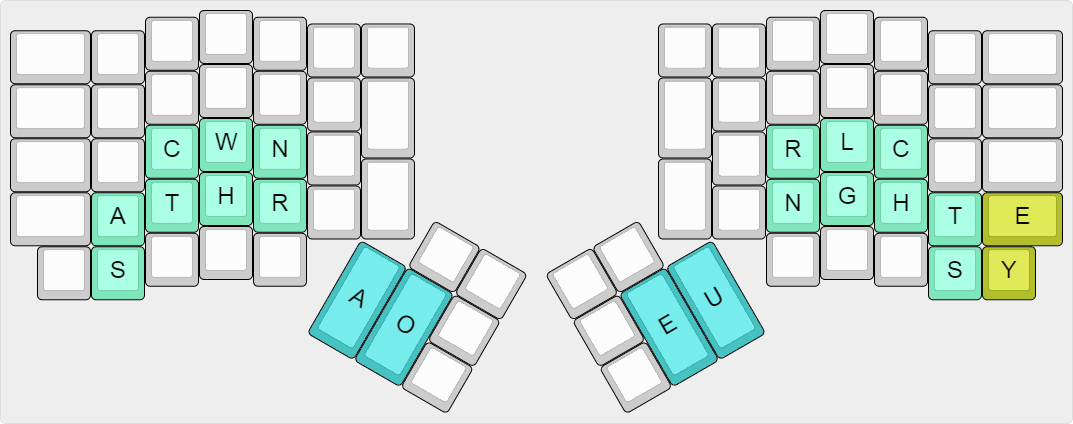
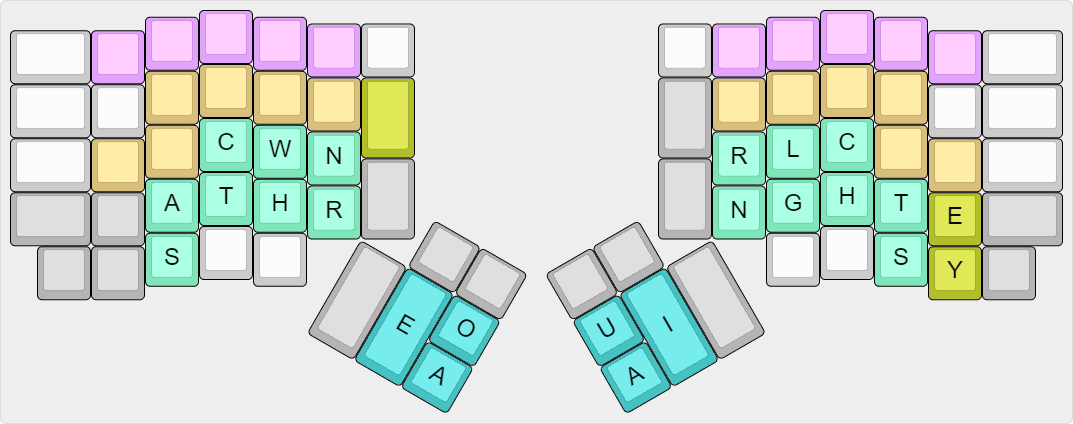
New 5 vowels layout, it should works

diff --git a/keyboard/ergodox_ez/keymaps/fromtonrouge/lookup_tables/shelton_tables.h b/keyboard/ergodox_ez/keymaps/fromtonrouge/lookup_tables/shelton_tables.h
@@ -264,46 +264,78 @@ const uint8_t PROGMEM g_left_hand_table[256][MAX_LETTERS] =
     NO_ENTRY                                // [255]
 };
 
-// From Jackdaw (the 4 vowels version)
-const uint8_t PROGMEM g_thumbs_table_1[16][MAX_LETTERS] =
+// From Jackdaw (the 5 vowels version)
+const uint8_t PROGMEM g_thumbs_table_1[32][MAX_LETTERS] =
 {
     NO_ENTRY,                               // [0]
-    _1(_A),                                 // [1]
+    _1(_E),                                 // [1]
     _1(_O),                                 // [2]
-    _2(_I, _O),                             // [3]
-    _1(_E),                                 // [4]
+    _2(_E, _O),                             // [3]
+    _1(_A),                                 // [4]
     _2(_E, _A),                             // [5]
-    _2(_I, _E),                             // [6]
-    _2(_E, _E),                             // [7]
+    _2(_O, _A),                             // [6]
+    _3(_E, _O, _A),                         // [7]
     _1(_U),                                 // [8]
-    _2(_A, _U),                             // [9]
+    _2(_E, _U),                             // [9]
     _2(_O, _U),                             // [10]
-    _2(_O, _O),                             // [11]
-    _1(_I),                                 // [12]
-    _2(_A, _I),                             // [13]
-    _2(_O, _I),                             // [14]
-    _2(_O, _A)                              // [15]
+    _3(_E, _O, _U),                         // [11]
+    _2(_A, _U),                             // [12]
+    _3(_E, _A, _U),                         // [13]
+    _3(_O, _A, _U),                         // [14]
+    _4(_E, _O, _A, _U),                     // [15]     Find something usefull here
+    _1(_I),                                 // [16]
+    _2(_E, _I),                             // [17]
+    _2(_O, _I),                             // [18]
+    _3(_E, _O, _I),                         // [19]
+    _2(_A, _I),                             // [20]
+    _3(_E, _A, _I),                         // [21]
+    _3(_O, _A, _I),                         // [22]
+    _4(_E, _O, _A, _I),                     // [23]     Find something usefull here
+    _2(_U, _I),                             // [24]
+    _3(_E, _U, _I),                         // [25]
+    _3(_O, _U, _I),                         // [26]
+    _4(_E, _O, _U, _I),                     // [27]     Find something usefull here
+    _3(_A, _U, _I),                         // [28]
+    _4(_E, _A, _U, _I),                     // [29]     Find something usefull here
+    _4(_O, _A, _U, _I),                     // [30]     Find something usefull here
+    _5(_E, _O, _A, _U, _I)                  // [31]     Find something usefull here
 };
 
 // Double single vowels and invert bigrams
-const uint8_t PROGMEM g_thumbs_table_2[16][MAX_LETTERS] =
+const uint8_t PROGMEM g_thumbs_table_2[32][MAX_LETTERS] =
 {
     NO_ENTRY,                               // [0]
-    _2(_A, _A),                             // [1]
+    _2(_E, _E),                             // [1]
     _2(_O, _O),                             // [2]
-    _2(_O, _I),                             // [3]
-    _2(_E, _E),                             // [4]
+    _2(_O, _E),                             // [3]
+    _2(_A, _A),                             // [4]
     _2(_A, _E),                             // [5]
-    _2(_E, _I),                             // [6]
-    _2(_E, _Y),                             // [7]
+    _2(_A, _O),                             // [6]
+    _3(_E, _A, _O),                         // [7]
     _2(_U, _U),                             // [8]
-    _2(_U, _A),                             // [9]
+    _2(_U, _E),                             // [9]
     _2(_U, _O),                             // [10]
-    _2(_O, _Y),                             // [11]
-    _2(_I, _I),                             // [12]
-    _2(_I, _A),                             // [13]
-    _2(_I, _O),                             // [14]
-    _2(_A, _O)                              // [15]
+    _3(_E, _U, _O),                         // [11]
+    _2(_U, _A),                             // [12]
+    _3(_E, _U, _A),                         // [13]
+    _3(_O, _U, _A),                         // [14]
+    _4(_E, _O, _U, _A),                     // [15]     Find something usefull here
+    _2(_I, _I),                             // [16]
+    _2(_I, _E),                             // [17]
+    _2(_I, _O),                             // [18]
+    _3(_E, _I, _O),                         // [19]
+    _2(_I, _A),                             // [20]
+    _3(_E, _I, _A),                         // [21]
+    _3(_O, _I, _A),                         // [22]
+    _4(_E, _O, _I, _A),                     // [23]     Find something usefull here
+    _2(_I, _U),                             // [24]
+    _3(_E, _I, _U),                         // [25]
+    _3(_O, _I, _U),                         // [26]
+    _4(_E, _O, _I, _U),                     // [27]     Find something usefull here
+    _3(_A, _I, _U),                         // [28]
+    _4(_E, _A, _I, _U),                     // [29]     Find something usefull here
+    _4(_O, _A, _I, _U),                     // [30]     Find something usefull here
+    _5(_E, _O, _A, _I, _U)                  // [31]     Find something usefull here
 };
 
 const uint8_t PROGMEM g_right_hand_table[256][MAX_LETTERS] =

diff --git a/keyboard/ergodox_ez/keymaps/fromtonrouge/keymap.c b/keyboard/ergodox_ez/keymaps/fromtonrouge/keymap.c
@@ -57,15 +57,16 @@ enum key_family
 #define L_N (6 | (FAMILY_LEFT_HAND << 4) | STENO_BIT)
 #define L_R (7 | (FAMILY_LEFT_HAND << 4) | STENO_BIT)
 
-// 4 bits for the thumbs
+// 5 bits for thumbs
 #define OFFSET_THUMBS 10
-#define T_A (0 | (FAMILY_THUMBS << 4) | STENO_BIT)
+#define T_E (0 | (FAMILY_THUMBS << 4) | STENO_BIT)
 #define T_O (1 | (FAMILY_THUMBS << 4) | STENO_BIT)
-#define T_E (2 | (FAMILY_THUMBS << 4) | STENO_BIT)
+#define T_A (2 | (FAMILY_THUMBS << 4) | STENO_BIT)
 #define T_U (3 | (FAMILY_THUMBS << 4) | STENO_BIT)
+#define T_I (4 | (FAMILY_THUMBS << 4) | STENO_BIT)
 
 // 8 bits for the right hand
-#define OFFSET_RIGHT_HAND 14
+#define OFFSET_RIGHT_HAND 15
 #define R_R (0 | (FAMILY_RIGHT_HAND << 4) | STENO_BIT)
 #define R_N (1 | (FAMILY_RIGHT_HAND << 4) | STENO_BIT)
 #define R_L (2 | (FAMILY_RIGHT_HAND << 4) | STENO_BIT)
@@ -76,18 +77,18 @@ enum key_family
 #define R_S (7 | (FAMILY_RIGHT_HAND << 4) | STENO_BIT)
 
 // 2 bits for E and Y
-#define OFFSET_RIGHT_PINKY 22
+#define OFFSET_RIGHT_PINKY 23
 #define RP_E  (0 | (FAMILY_RIGHT_PINKY << 4) | STENO_BIT)
 #define RP_Y  (1 | (FAMILY_RIGHT_PINKY << 4) | STENO_BIT)
 
 // 3 bits for space control keys
-#define OFFSET_SPACE_CONTROLS 24
+#define OFFSET_SPACE_CONTROLS 25
 #define S_SPC  (0 | (FAMILY_SPACES << 4) | STENO_BIT)
 #define S_TAB  (1 | (FAMILY_SPACES << 4) | STENO_BIT)
 #define S_ENT  (2 | (FAMILY_SPACES << 4) | STENO_BIT)
 
 // 2 bits for case control keys (upper case, initial case)
-#define OFFSET_CASE_CONTROLS 27
+#define OFFSET_CASE_CONTROLS 28
 #define C_UC   (0 | (FAMILY_CASE_CONTROLS << 4) | STENO_BIT)
 #define C_IC  (1 | (FAMILY_CASE_CONTROLS << 4) | STENO_BIT)
 
@@ -244,9 +245,9 @@ KEYMAP(
                 0,      USRL_0,     USRL_1,     L_C,        L_W,        L_N,        
                 C_UC,   C_IC,       L_A,        L_T,        L_H,        L_R,          S_SPC,
                 C_UC,   C_IC,       L_S,        0,          0,
-                                                                                           SC_PLUS, SC_PLUS,
+                                                                                           SC_STAR, SC_STAR,
                                                                                                     T_O,
-                                                                                    S_ENT, T_A,     T_O,
+                                                                                    S_ENT, T_E,     T_A,
                 // Right hand
                             0,     NR_B3,      NR_B2,      NR_B1,      NR_B0,      NR_N0,      0,
                             S_SPC, USRR_5,     USRR_4,     USRR_3,     USRR_2,     0,          0,
@@ -254,8 +255,8 @@ KEYMAP(
                             S_SPC, R_N,        R_G,        R_H,        R_T,        RP_E,       C_IC,
                                                0,          0,          R_S,        RP_Y,       C_IC,
                 SC_PLUS,    SC_PLUS,
-                T_E,
-                T_E,        T_U,        0
+                T_U,
+                T_A,        T_I,       SC_PLUS 
 ),
 
 // SHIFT STENO MAP (when C_IC or C_UC are pressed)
@@ -312,7 +313,7 @@ const uint16_t PROGMEM keymaps[][MATRIX_ROWS][MATRIX_COLS] = {
 [LAYER_STENO] = KEYMAP(
         // left hand
         KC_TRNS,      ST_ON,      ST_ON,      ST_ON,      ST_ON,      ST_ON,        KC_BSPC,
-        KC_LALT,      ST_ON,      ST_ON,      ST_ON,      ST_ON,      ST_ON,        ST_ON,
+        KC_LALT,      KC_TAB,     ST_ON,      ST_ON,      ST_ON,      ST_ON,        ST_ON,
         KC_LCTL,      ST_ON,      ST_ON,      ST_ON,      ST_ON,      ST_ON,   
         ST_ON,        ST_ON,      ST_ON,      ST_ON,      ST_ON,      ST_ON,        ST_ON,
         ST_ON,        ST_ON,      ST_ON,      KC_TRNS,    KC_TRNS,
@@ -320,14 +321,14 @@ const uint16_t PROGMEM keymaps[][MATRIX_ROWS][MATRIX_COLS] = {
                                                                                                   ST_ON,
                                                                             ST_ON,      ST_ON,    ST_ON,
         // right hand
-                    KC_NO,          ST_ON,      ST_ON,      ST_ON,      ST_ON,      ST_ON,      KC_TRNS,
+                    KC_DEL,         ST_ON,      ST_ON,      ST_ON,      ST_ON,      ST_ON,      KC_TRNS,
                     ST_ON,          ST_ON,      ST_ON,      ST_ON,      ST_ON,      ST_ON,      KC_RALT,
                                     ST_ON,      ST_ON,      ST_ON,      ST_ON,      ST_ON,      KC_RCTL,   
                     ST_ON,          ST_ON,      ST_ON,      ST_ON,      ST_ON,      ST_ON,      ST_ON,   
                                                 KC_TRNS,    KC_TRNS,    ST_ON,      ST_ON,      ST_ON,
         ST_ON,    ST_ON,
         ST_ON,
-        ST_ON,    ST_ON,     KC_DEL 
+        ST_ON,    ST_ON,    ST_ON 
 ),
 
 // SHIFTED LAYER

diff --git a/keyboard/ergodox_ez/keymaps/fromtonrouge/readme.md b/keyboard/ergodox_ez/keymaps/fromtonrouge/readme.md
@@ -218,39 +218,71 @@ Home position :
 
 ### Lookup table for thumbs 1
 
-    A               =       A                   [1]
-    AI              =       A|E|U               [13]
-    AU              =       A|U                 [9]
-    E               =       E                   [4]
-    EA              =       A|E                 [5]
-    EE              =       A|O|E               [7]
-    I               =       E|U                 [12]
-    IE              =       O|E                 [6]
-    IO              =       A|O                 [3]
+    A               =       A                   [4]
+    AI              =       A|I                 [20]
+    AU              =       A|U                 [12]
+    AUI             =       A|U|I               [28]
+    E               =       E                   [1]
+    EA              =       E|A                 [5]
+    EAI             =       E|A|I               [21]
+    EAU             =       E|A|U               [13]
+    EAUI            =       E|A|U|I             [29]     Find something usefull here
+    EI              =       E|I                 [17]
+    EO              =       E|O                 [3]
+    EOA             =       E|O|A               [7]
+    EOAI            =       E|O|A|I             [23]     Find something usefull here
+    EOAU            =       E|O|A|U             [15]     Find something usefull here
+    EOAUI           =       E|O|A|U|I           [31]     Find something usefull here
+    EOI             =       E|O|I               [19]
+    EOU             =       E|O|U               [11]
+    EOUI            =       E|O|U|I             [27]     Find something usefull here
+    EU              =       E|U                 [9]
+    EUI             =       E|U|I               [25]
+    I               =       I                   [16]
     O               =       O                   [2]
-    OA              =       A|O|E|U             [15]
-    OI              =       O|E|U               [14]
-    OO              =       A|O|U               [11]
+    OA              =       O|A                 [6]
+    OAI             =       O|A|I               [22]
+    OAU             =       O|A|U               [14]
+    OAUI            =       O|A|U|I             [30]     Find something usefull here
+    OI              =       O|I                 [18]
     OU              =       O|U                 [10]
+    OUI             =       O|U|I               [26]
     U               =       U                   [8]
+    UI              =       U|I                 [24]
 
-### Lookup table for thumbs 2 (when * is in the stroke)
+### Lookup table for thumbs 2 (when * is used with vowels)
 
-    AA              =       A                   [1]
-    IA              =       A|E|U               [13]
-    UA              =       A|U                 [9]
-    EE              =       E                   [4]
+    AA              =       A|A                 [4]
     AE              =       A|E                 [5]
-    EY              =       A|O|E               [7]
-    II              =       E|U                 [12]
-    EI              =       O|E                 [6]
-    OI              =       A|O                 [3]
-    OO              =       O                   [2]
-    AO              =       A|O|E|U             [15]
-    IO              =       O|E|U               [14]
-    OY              =       A|O|U               [11]
-    UO              =       O|U                 [10]
-    UU              =       U                   [8]
+    AIU             =       A|I|U               [28]
+    AO              =       A|O                 [6]
+    EAIU            =       E|A|I|U             [29]     Find something usefull here
+    EAO             =       E|A|O               [7]
+    EE              =       E|E                 [1]
+    EIA             =       E|I|A               [21]
+    EIO             =       E|I|O               [19]
+    EIU             =       E|I|U               [25]
+    EOAIU           =       E|O|A|I|U           [31]     Find something usefull here
+    EOIA            =       E|O|I|A             [23]     Find something usefull here
+    EOIU            =       E|O|I|U             [27]     Find something usefull here
+    EOUA            =       E|O|U|A             [15]     Find something usefull here
+    EUA             =       E|U|A               [13]
+    EUO             =       E|U|O               [11]
+    IA              =       I|A                 [20]
+    IE              =       I|E                 [17]
+    II              =       I|I                 [16]
+    IO              =       I|O                 [18]
+    IU              =       I|U                 [24]
+    OAIU            =       O|A|I|U             [30]     Find something usefull here
+    OE              =       O|E                 [3]
+    OIA             =       O|I|A               [22]
+    OIU             =       O|I|U               [26]
+    OO              =       O|O                 [2]
+    OUA             =       O|U|A               [14]
+    UA              =       U|A                 [12]
+    UE              =       U|E                 [9]
+    UO              =       U|O                 [10]
+    UU              =       U|U                 [8]
 
 ### Lookup table for the right hand (Shelton table)
 
